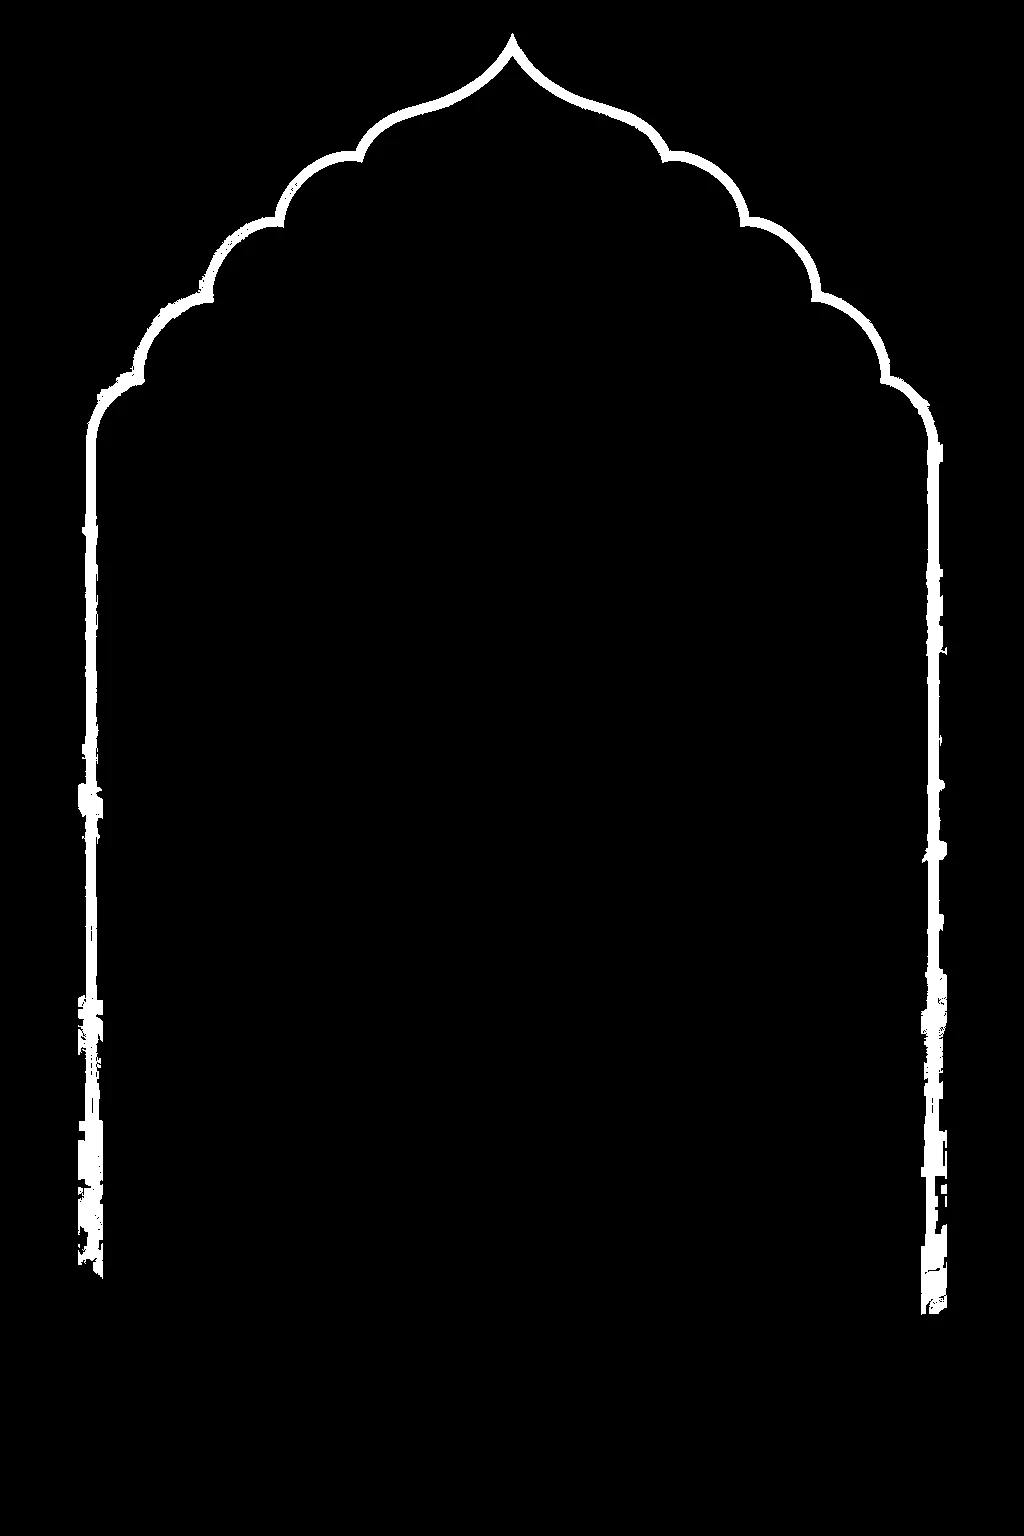
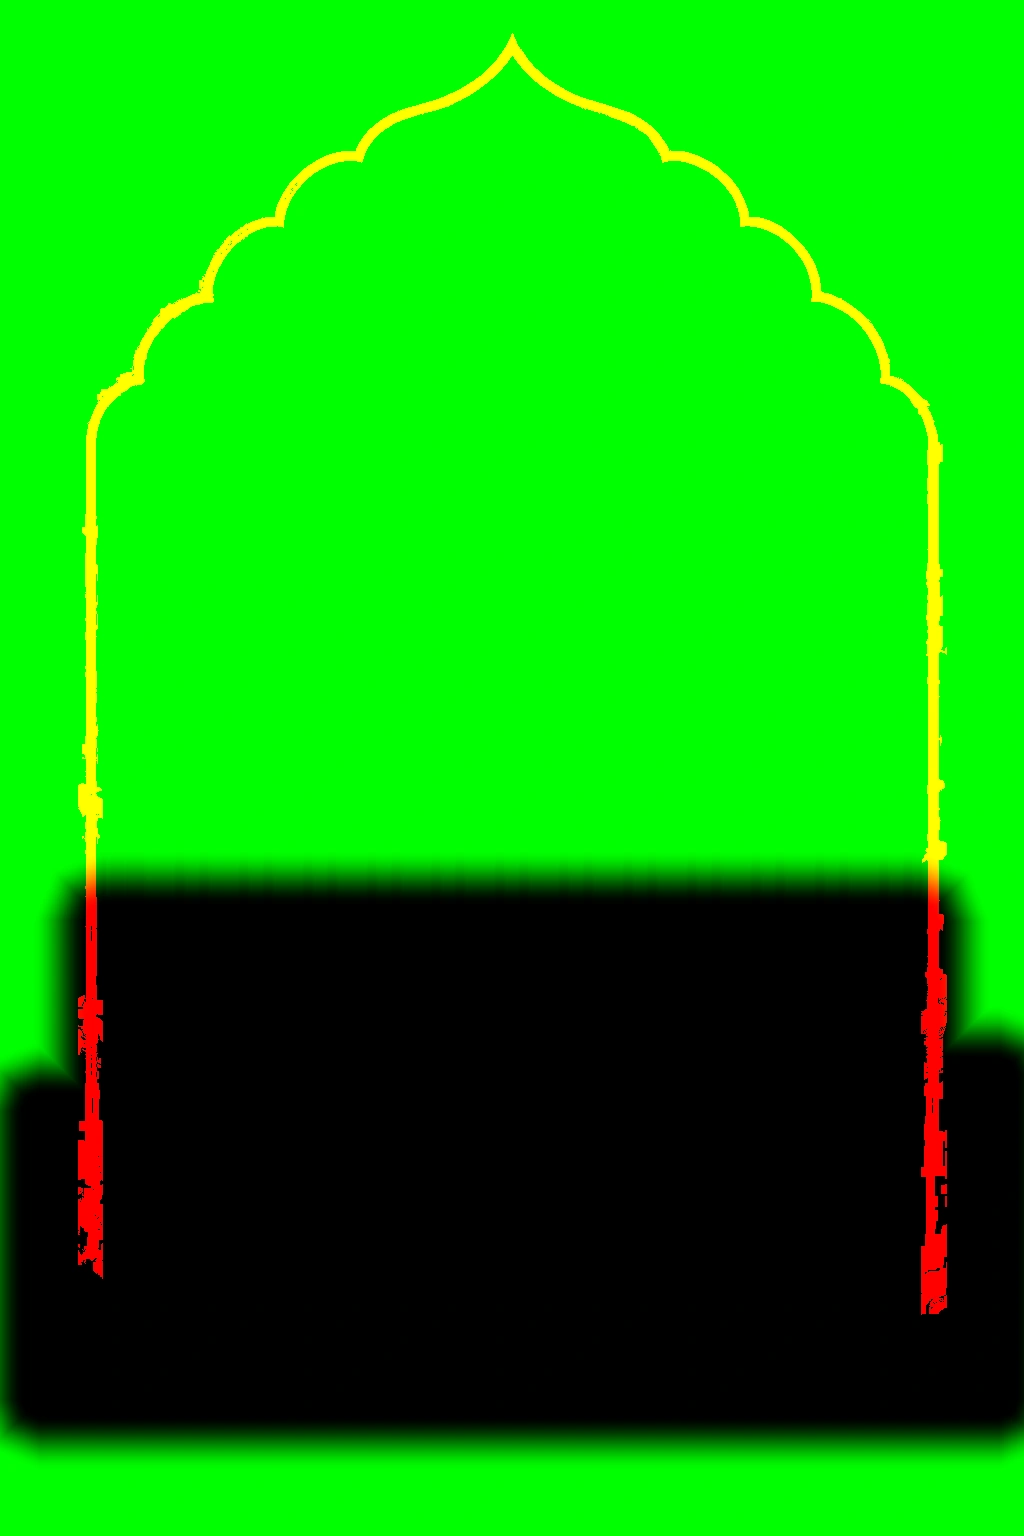
Keep the scenery perfectly still while the flowers sway
Buildings, trees, the bridge and the sky behind the skyline are held
still, and the sway eases in only away from them, so no scenery pixel
is ever bent or pulled along by the flowers.

diff --git a/src/animation/ambient.ts b/src/animation/ambient.ts
@@ -117,6 +117,10 @@ void main() {
     arch = max(arch, 0.85 * texture2D(uArch, vUv + dir * 16.0).r);
   }
   sw *= 1.0 - smoothstep(0.15, 0.6, arch);
+  // The scenery stays perfectly still too: the buildings, trees, bridge and
+  // the sky behind the skyline. Nothing within ~16 px of them moves, and the
+  // sway eases in over the next ~56 px, so no moving pixel ever samples them.
+  sw *= smoothstep(0.03, 1.0, texture2D(uArch, vUv).g);
   // anchored at the card's edge, where the plants grow from (and nothing is
   // ever sampled from outside the painting)
   sw *= smoothstep(0.0, 26.0, px.x) * smoothstep(0.0, 26.0, SIZE.x - px.x) * smoothstep(0.0, 26.0, px.y) * smoothstep(0.0, 26.0, SIZE.y - px.y);
